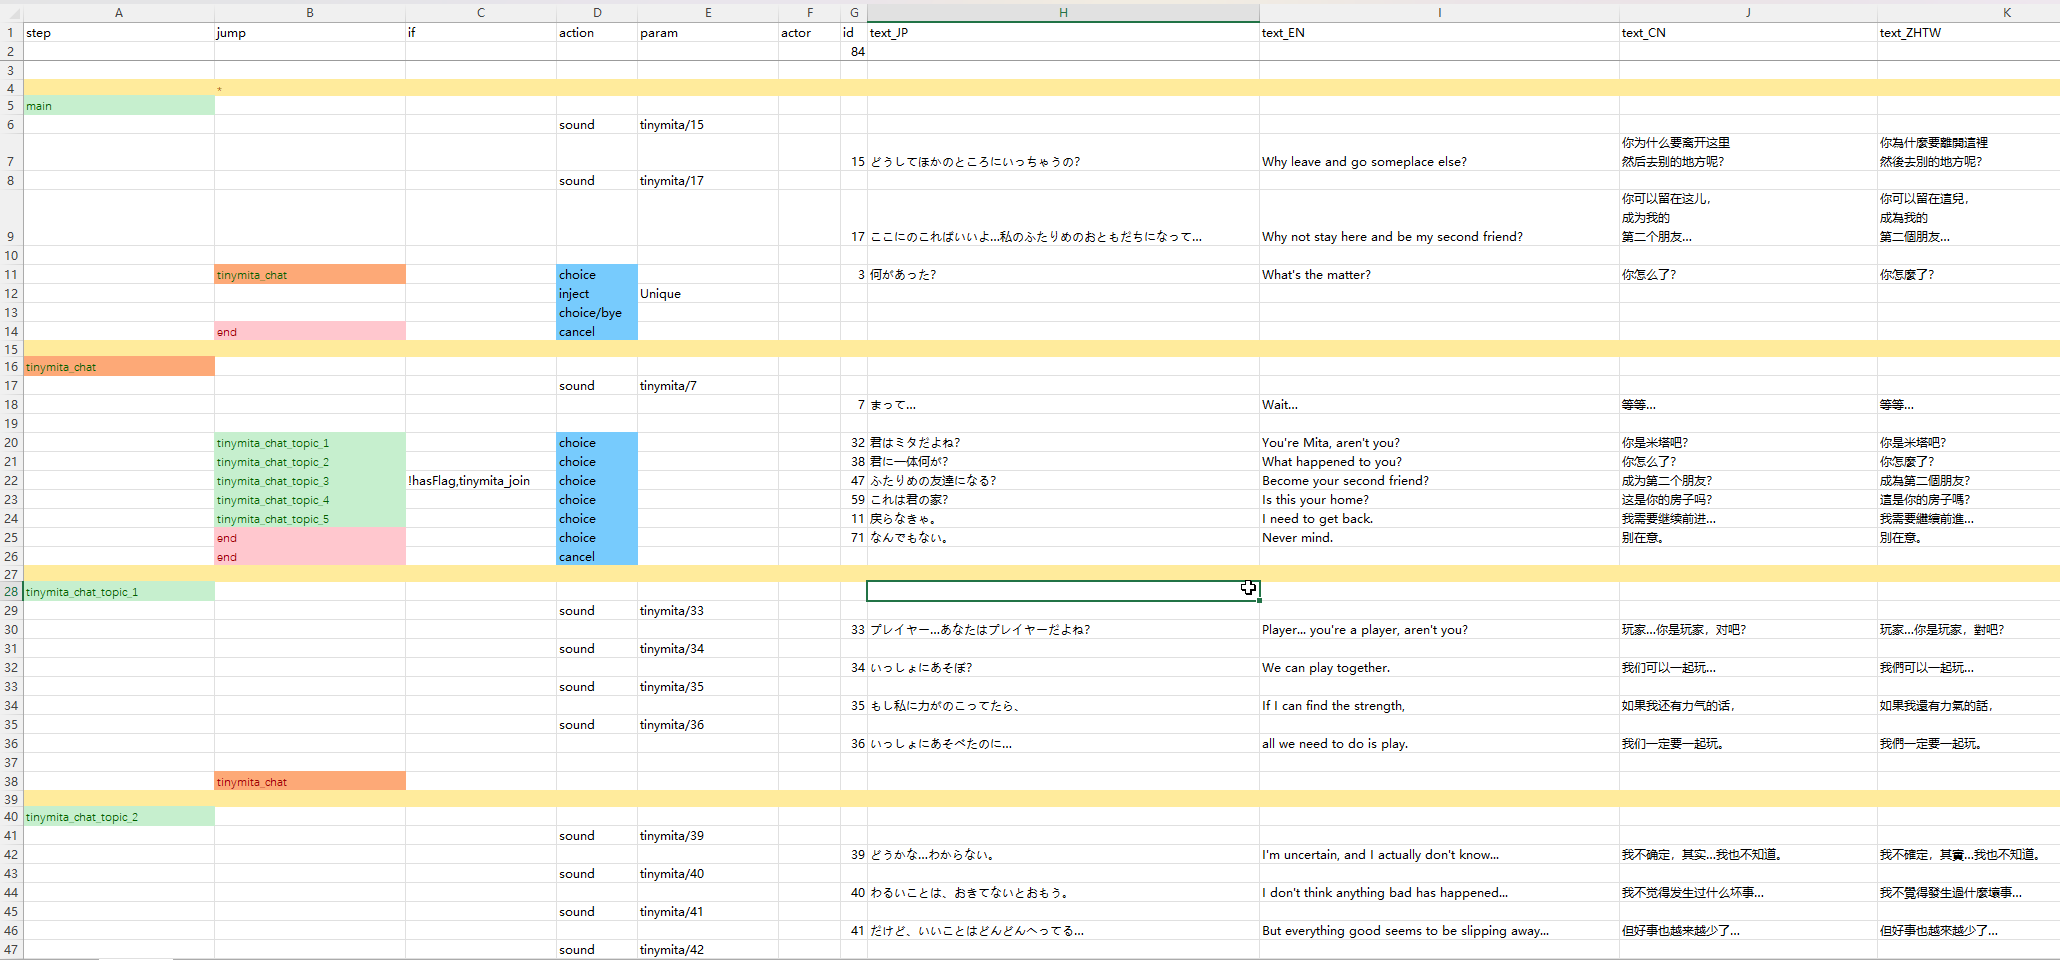
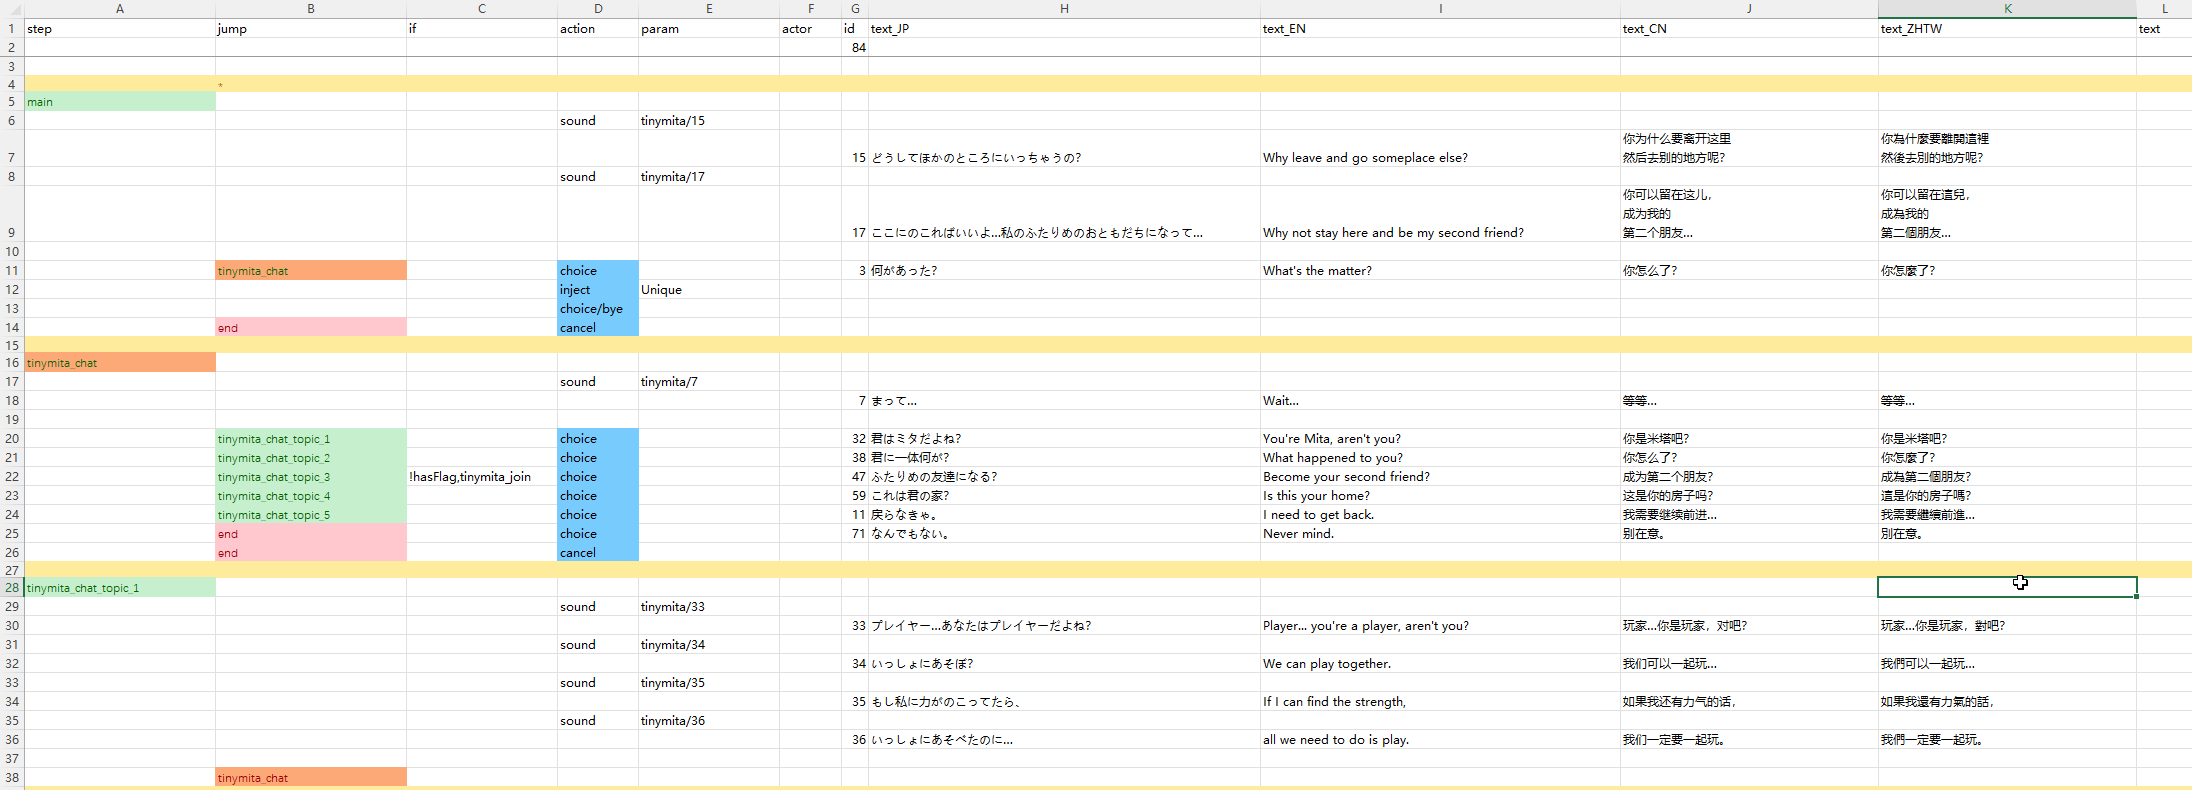
update cwl docs

diff --git a/articles/100_Mod Documentation/Custom Whatever Loader/EN/Character/1_talks.md b/articles/100_Mod Documentation/Custom Whatever Loader/EN/Character/1_talks.md
@@ -60,7 +60,7 @@ A drama sheet is executed from top to bottom, and composed of drama lines. A dra
 - `param`: the parameters for the action.
 - `actor`: The current line speaker. Only fill this when you want to introduce multiple character conversation. Defaults to `tg`. Append `?` to show as `???`.
 - `id`: unique id for this line, this is only and mandatory for `text` lines.
-- `text_XX` / `text_JP` / `text_EN`: the actual dialog content in this line. `text_XX` is for other languages where `XX` is the lang code, such as `text_CN`, `text_RU`.
+- `text_XX` / `text_JP` / `text_EN` / `text`: the actual dialog content in this line. `text_XX` is for other languages where `XX` is the lang code, such as `text_CN`, `text_RU`. `text` column will be used as the last fallback for language code that's missing.
 
 The flow of the drama is connected by drama steps, each drama step contains one or many drama lines, line can be pure dialog, action, and/or conditional at the same time.
 

diff --git a/articles/100_Mod Documentation/Custom Whatever Loader/JP/Character/1_talks.md b/articles/100_Mod Documentation/Custom Whatever Loader/JP/Character/1_talks.md
@@ -64,7 +64,7 @@ hide: true
 - `param`：アクションのパラメータ
 - `actor`：発言キャラクターID（複数キャラ会話用）。デフォルト `tg`。接尾辞 `?` は名前 `???` を表示します
 - `id`：テキスト行の一意識別子（テキスト行のみ必須）
-- `text_XX`/`text_JP`/`text_EN`：実際の対話内容。`XX` は言語コード、例えば `text_CN`, `text_ZHTW`, `text_RU`
+- `text_XX`/`text_JP`/`text_EN`：実際の対話内容。`XX` は言語コードで、例えば `text_CN`, `text_ZHTW`。`text` 列は欠落している言語コードの代替として使用されます。
 
 シナリオはステップで実行され、各ステップ内で会話/アクション/条件分岐を組み合わせられます。
 

diff --git a/articles/100_Mod Documentation/Custom Whatever Loader/CN/Character 角色/1_talks.md b/articles/100_Mod Documentation/Custom Whatever Loader/CN/Character 角色/1_talks.md
@@ -64,7 +64,7 @@ hide: true
 - `param`：动作参数
 - `actor`：当前说话角色 ID, 用于多人对话场景。默认 `tg`。后缀 `?` 以显示名称为 `???`
 - `id`：文本行唯一标识(仅文本行必需)
-- `text_XX`/`text_JP`/`text_EN`：实际对话内容。`XX` 为语言代码，例如 `text_CN`, `text_ZHTW`
+- `text_XX`/`text_JP`/`text_EN`：实际对话内容。`XX` 为语言代码，例如 `text_CN`, `text_ZHTW`。`text` 列将作为缺失语言代码的备选。
 
 剧情通过步骤串联执行, 每个步骤包含若干行剧情单元, 可混合对话/动作/条件判断。
 
